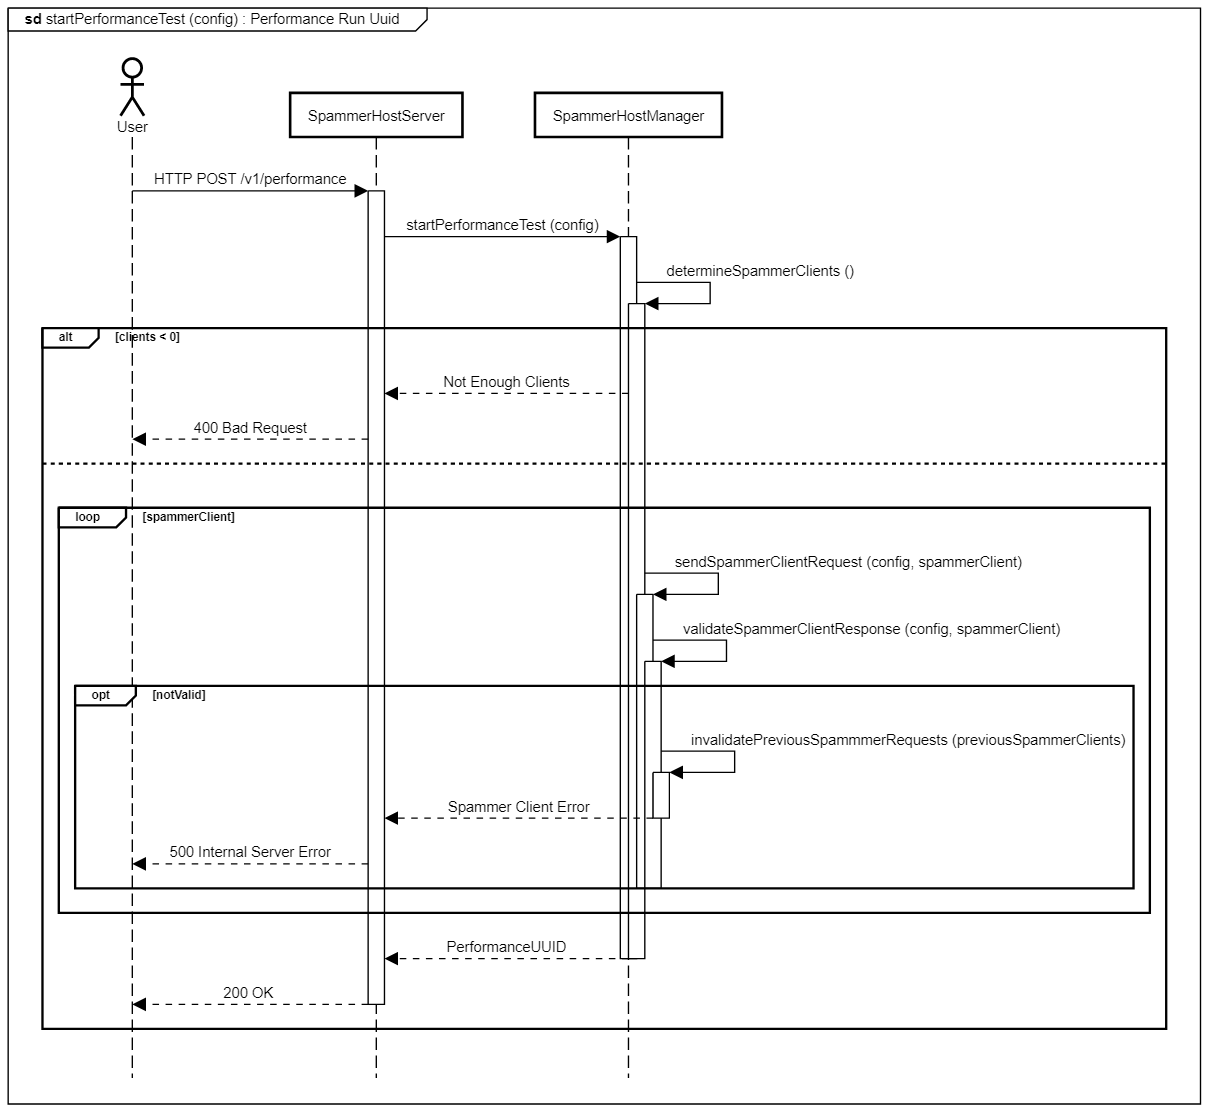
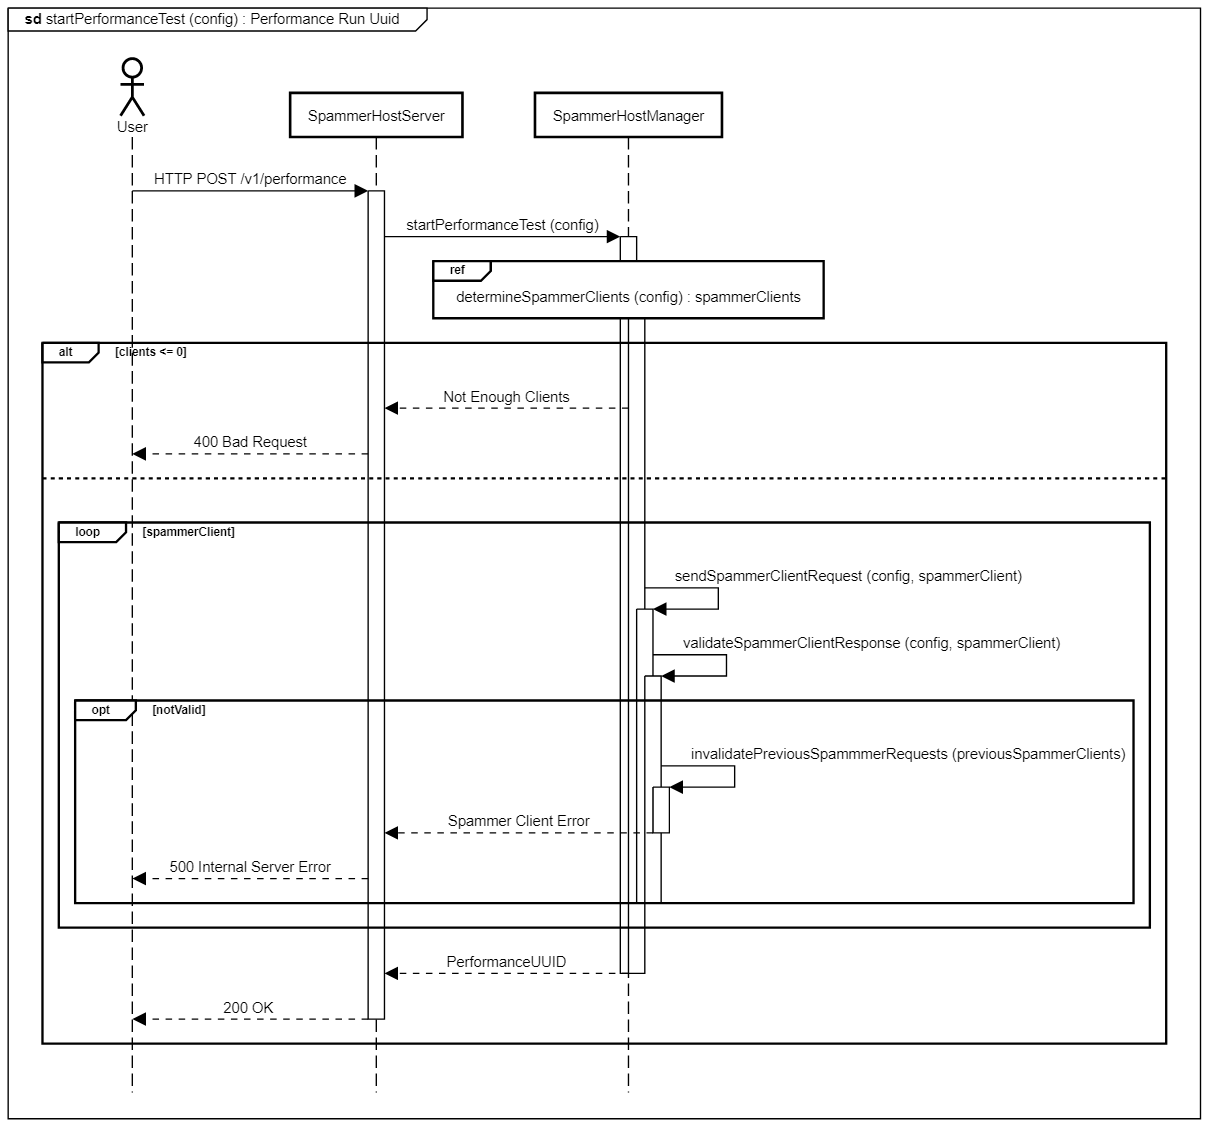
Fixing tests.

diff --git a/src/test/cluster/client/cluster-client-http.unit.test.js b/src/test/cluster/client/cluster-client-http.unit.test.js
@@ -2,13 +2,41 @@ const ClusterClientHttp = require('../../../cluster/client/cluster-client-http')
 const HttpServer = require('../../../server/http-server');
 jest.mock('../../../server/http-server');
 
-it('Ensure that link returns bad request when no host id provided', () => {
+let clusterClientHttp;
+
+beforeEach(() => {
     const httpServer = new HttpServer();
-    const myClient = new ClusterClientHttp(httpServer);
+    clusterClientHttp = new ClusterClientHttp(httpServer);
+});
+
+it('Ensure that link returns bad request when no host id provided', () => {
     const statusFunction = jest.fn();
     statusFunction.mockReturnValue({ json: jest.fn() });
-    myClient.linkHostRequestHandler({ body: {} }, { status: statusFunction, end: jest.fn() });
+    clusterClientHttp.linkHostRequestHandler({ body: {} }, { status: statusFunction, end: jest.fn() });
 
     expect(statusFunction.mock.calls.length).toEqual(1);
     expect(statusFunction.mock.calls[0][0]).toEqual(400);
+});
+
+it('Ensure that get link returns the host ID when it is defined', () => {
+    clusterClientHttp.linkHost('someHost');
+    const jsonFunction = jest.fn();
+    jsonFunction.mockReturnValue({ end: jest.fn() });
+
+    clusterClientHttp.getLinkRequestHandler(undefined, { json: jsonFunction });
+
+    expect(jsonFunction.mock.calls.length).toEqual(1);
+    expect(jsonFunction.mock.calls[0][0]).toEqual({
+        host_id: 'someHost',
+    });
+});
+
+it('Ensure that get link returns 404 when it is not defined', () => {
+    const statusFunction = jest.fn();
+    statusFunction.mockReturnValue({ end: jest.fn() });
+
+    clusterClientHttp.getLinkRequestHandler(undefined, { status: statusFunction });
+
+    expect(statusFunction.mock.calls.length).toEqual(1);
+    expect(statusFunction.mock.calls[0][0]).toEqual(404);
 });

diff --git a/src/cluster/host/spammer-client-v1.js b/src/cluster/host/spammer-client-v1.js
@@ -1,0 +1,31 @@
+/**
+ * Logic for communicating with a Spammer client.
+ */
+
+const RemoteHost = require('./remote-host');
+const httpStatus = require('http-status-codes');
+
+class SpammerClientV1 extends RemoteHost {
+    constructor(socketAddress, uuid, httpClient, version = 1) {
+        super(socketAddress, uuid);
+        this.httpClient = httpClient;
+        this.version = version;
+    }
+
+    /**
+     * Returns true if the client is ready to receive a request, else false.
+     */
+    async isReady() {
+        const res = await this.httpClient.get(`/v1/${this.performancePath}`);
+        const resCode = res.code;
+        if (resCode == httpStatus.NOT_FOUND) {
+            return true;
+        } else if (resCode == httpStatus.OK) {
+            return false;
+        } else {
+            throw new Error('Unexpected response code from the spammer client!');
+        }
+    }
+}
+
+SpammerClientV1.performancePath = 'performance';

diff --git a/src/http/client.js b/src/http/client.js
@@ -1,24 +1,28 @@
 const axios = require('axios');
 
 class HttpClient {
-    async get(url, responseHandler) {
+    async get(url) {
         return axios({
             method: 'get',
             url: url,
         }).then(res => {
-            return this.responseInStandardFormat(res);
+            return this._responseInStandardFormat(res);
         });
     }
-    async post(url, body, responseHandler) {
+    async post(url, body) {
         return axios({
             method: 'post',
             url: url,
             data: body,
         }).then(res => {
-            return this.responseInStandardFormat(res);
+            return this._responseInStandardFormat(res);
         });
     }
-    responseInStandardFormat(res) {
+    /**
+     * The HTTP response in a standard format.
+     * @param {Object} res
+     */
+    _responseInStandardFormat(res) {
         return { code: res.status, body: res.data, headers: res.headers };
     }
 }

diff --git a/src/cluster/host/spammer-host-manager.js b/src/cluster/host/spammer-host-manager.js
@@ -16,6 +16,8 @@ class ClientIdAlreadyLinked extends Error {
     }
 }
 
+class NotEnoughClients extends Error {}
+
 class SpammerHostManager {
     constructor() {
         this.hostId = uuid();
@@ -44,6 +46,20 @@ class SpammerHostManager {
     checkClientExists(clientUuid) {
         return this.remoteHosts.has(clientUuid);
     }
+
+    startPerformanceTest(config) {}
+
+    async _determineSpammerClients(config) {
+        for (const remoteHost of this.remoteHosts) {
+            const result = await this.httpClient.get(`http://${remoteHost.socketAddress}/v1/internal/performance`);
+            logger.info(result);
+        }
+        if (this.remoteHosts.size <= 0) {
+            throw new NotEnoughClients();
+        }
+    }
+
+    _sendSpammerClientRequest(config, remoteHost) {}
 }
 
 module.exports = { SpammerHostManager, ClientIdAlreadyLinked };

diff --git a/README.md b/README.md
@@ -63,3 +63,7 @@ thresholds: {
 ### Start Performance Test
 
 ![Start Performance Test sequence diagram.](docs/startPerformanceTest.png)
+
+### Determine Spammer Clients
+
+![Determine Spammer Clients sequence diagram.](docs/determineSpammerClients.png)
